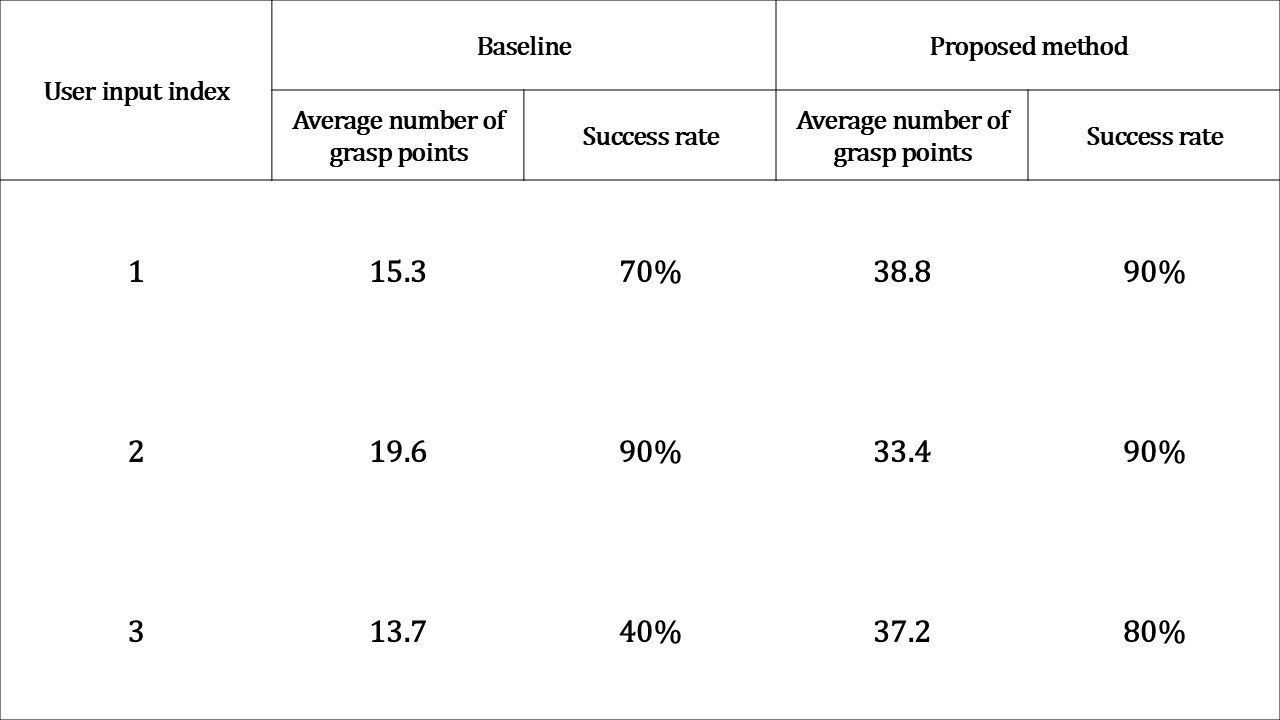
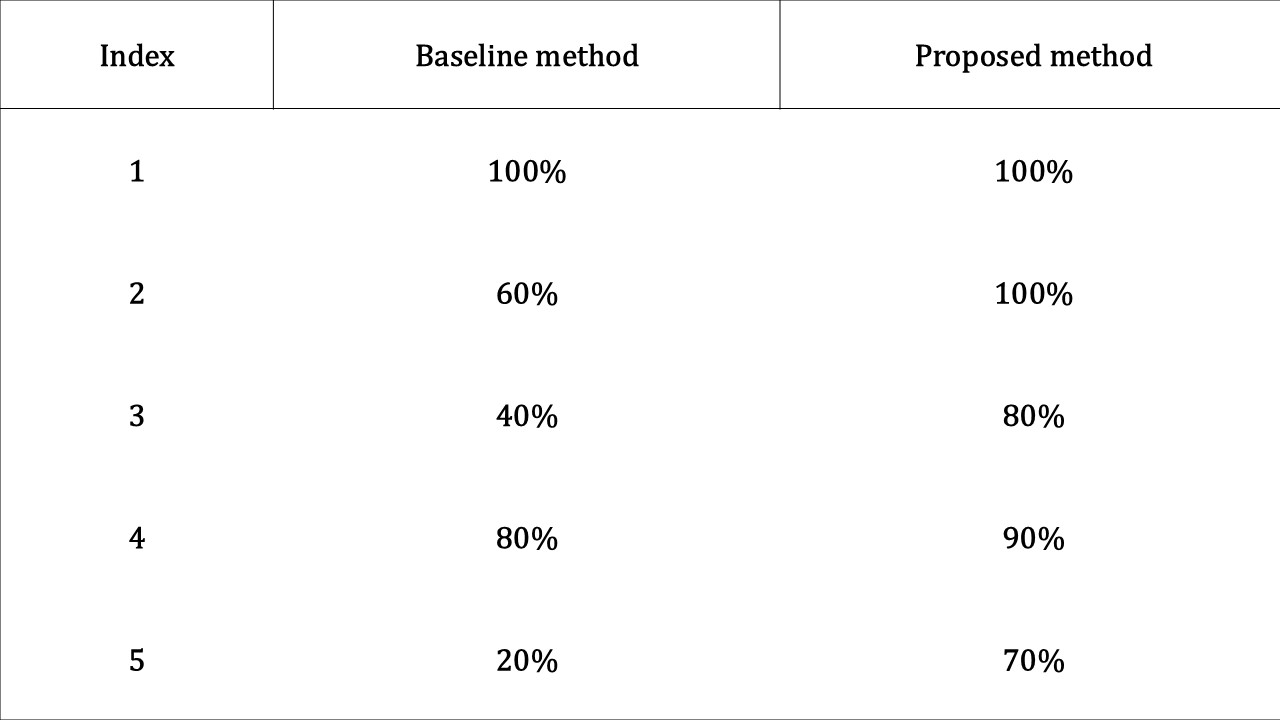
.

diff --git a/projects/project1_LLM_controlled_robot.md b/projects/project1_LLM_controlled_robot.md
@@ -213,11 +213,14 @@ This evaluation shows that bypassing Grounding DINO and letting the VLM select t
 
 To evaluate our proposed side point-cloud interpolation method, we compared the number of AnyGrasp candidate grasp points and the real-robot grasp success rate under two input settings: with interpolation and without interpolation. We tested three objects(a can, a small block, and a large block) chosen to match our gripper’s size (see **Fig. 17**). For each object, we ran 10 trials. The object layout was fixed across trials, while lighting varied naturally with sunlight. A trial was counted as success only if the physical grasp succeeded.
 
+And result(**Fig.18**) shows index 1 (can), interpolation produced about 2x more grasp points, yet both inputs had similarly high success rates. For index 2 (large black box), the grasp-point gap was a little under 2×, and the success rates were again about the same. These two objects are large enough that top-down grasps already work well, so extra side grasp points do not change the outcome. In contrast, for index 3 (small black box), interpolation yielded about 3× more grasp points and 2× higher success. That's because the top surface is small, so vertical grasps often fail and side grasp is needed.
+
 <div class="media-grid-2">
   {% include project-media.html type="image" src="colli_eval_input.jpg" caption="Fig. 19  Pointcloud input on Baseline and proposed method and example of grasp points" muted=true autoplay=true loop=true%}
   {% include project-media.html type="image" src="colli_eval_res.jpg" caption="Fig. 20. Comparison between the baseline and the proposed method result" muted=true autoplay=true loop=true%}
 </div>
 
+Furthermore, we evaluated AnyGrasp’s collision detection using side point-cloud inputs with and without interpolation (**Fig. 19**). For each condition, we ran 10 trials and compared the average number of grasp points, the number of collisions, and the grasp success rate. The results (**Fig. 20**) show about 3× more grasp points with interpolation, 2 collisions in the baseline (no interpolation), and about 2× higher success rate in favor of interpolation.
 
 
 ## Limitation and future work
